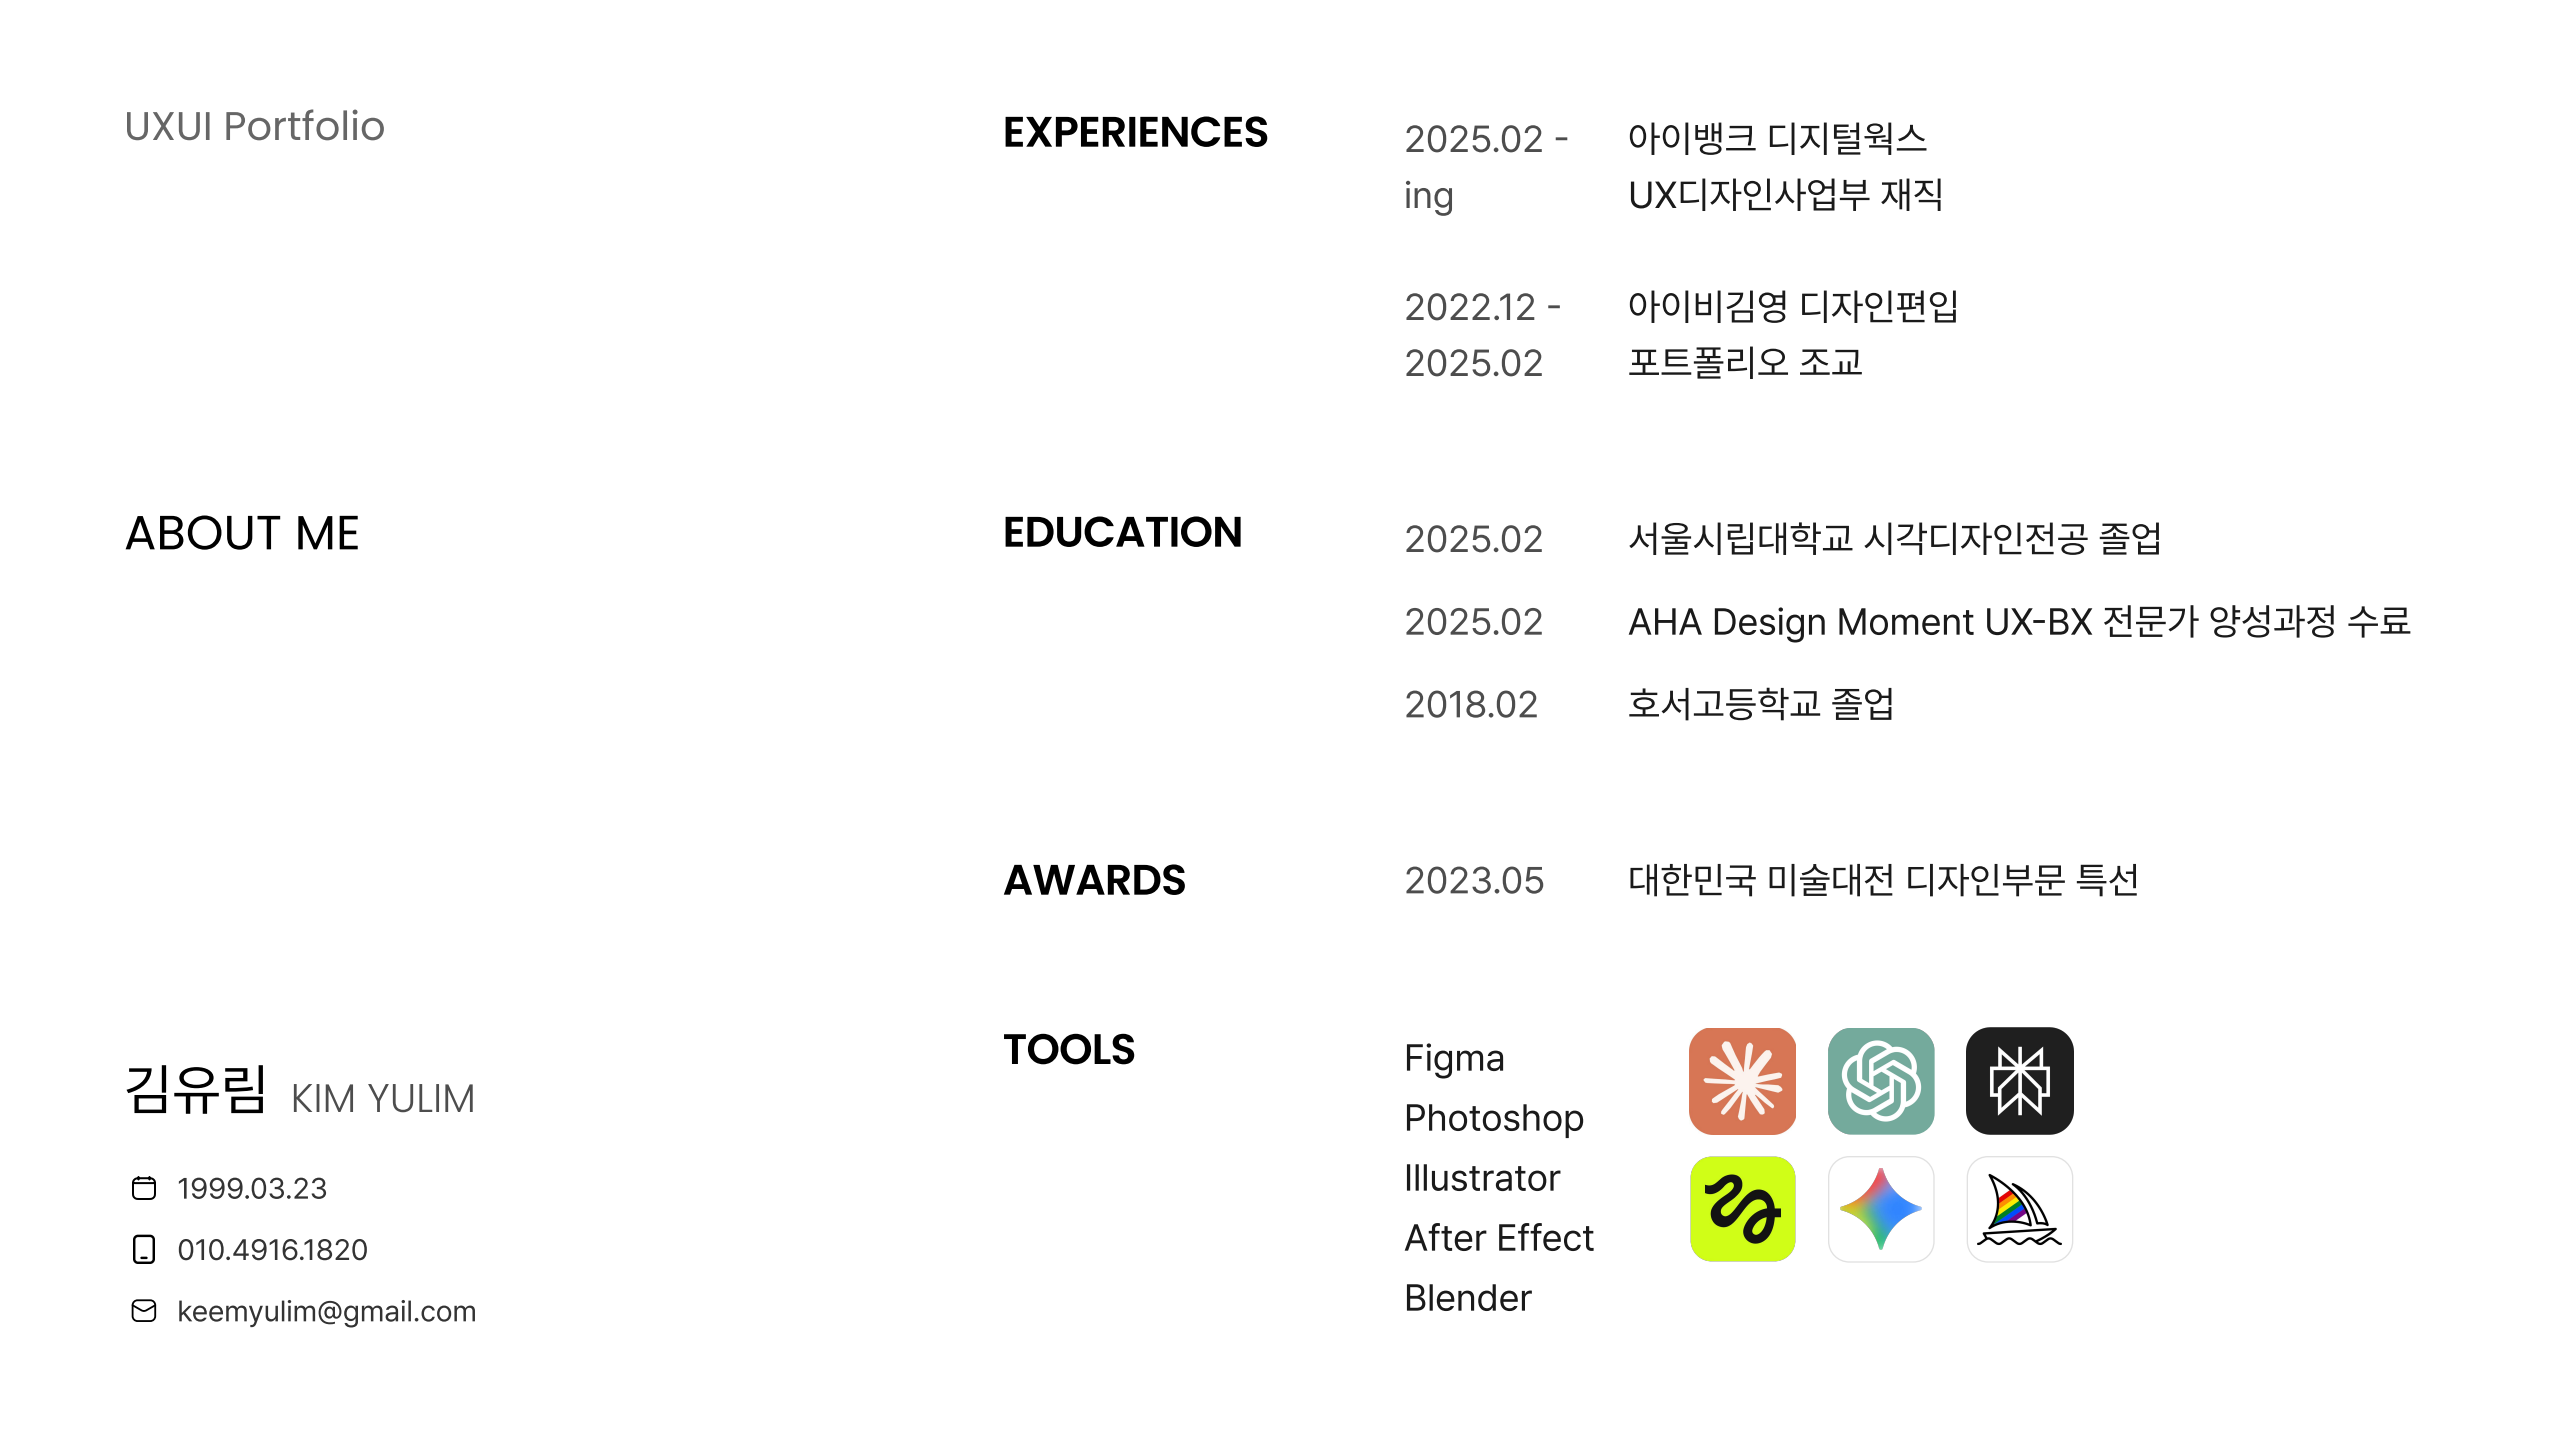
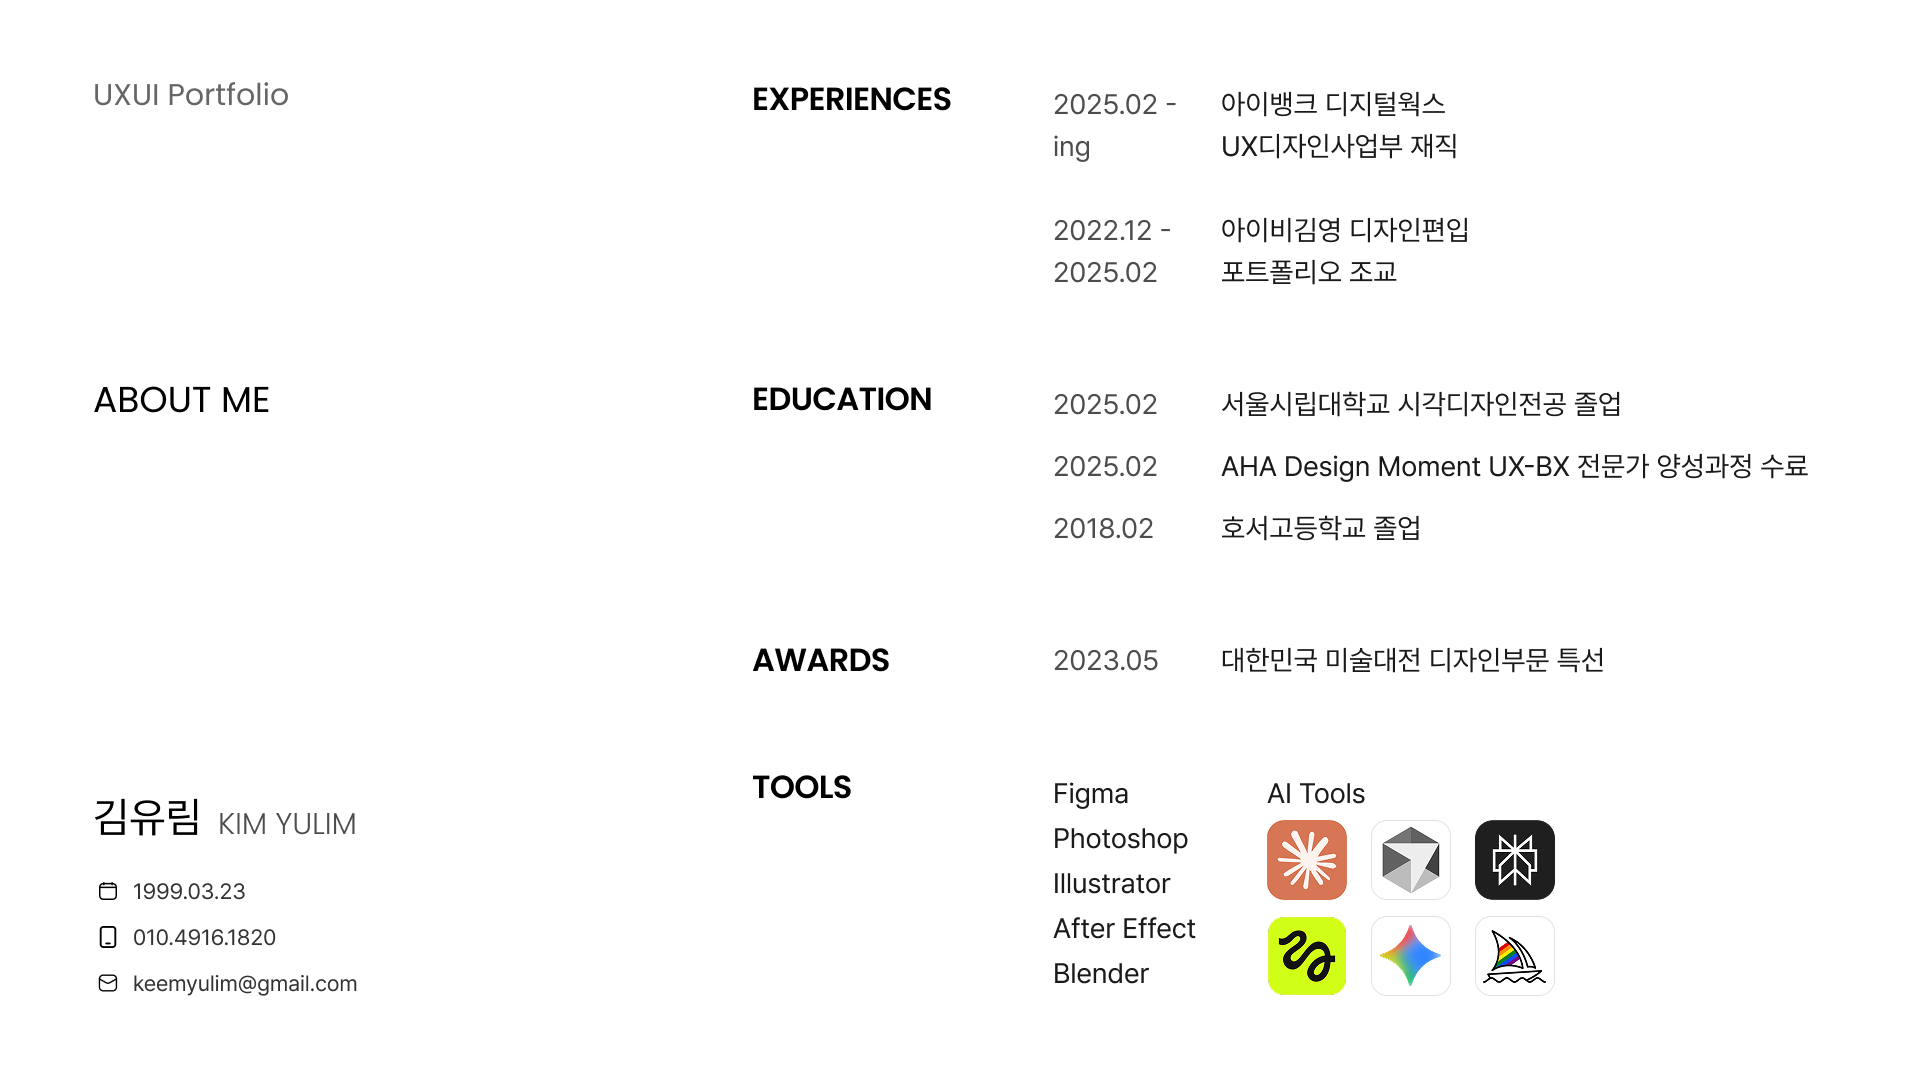
포트폴리오 2페이지 이미지 교체
- portfolio_2.png를 새 이미지로 교체 (2560x1440 → 1920x1080)
- portfolio-image-sizes.ts 크기 정보 재생성

Changed region(s): [[0.6562, 0.7028, 0.8125, 0.9472]]

diff --git a/app/portfolio-image-sizes.ts b/app/portfolio-image-sizes.ts
@@ -4,7 +4,7 @@
 
 export const PORTFOLIO_IMAGE_SIZES: ReadonlyArray<readonly [number, number]> = [
   [2560, 1440], // portfolio_1.png
-  [2560, 1440], // portfolio_2.png
+  [1920, 1080], // portfolio_2.png
   [2560, 1440], // portfolio_3.png
   [2560, 1440], // portfolio_4.png
   [2560, 1440], // portfolio_5.png
